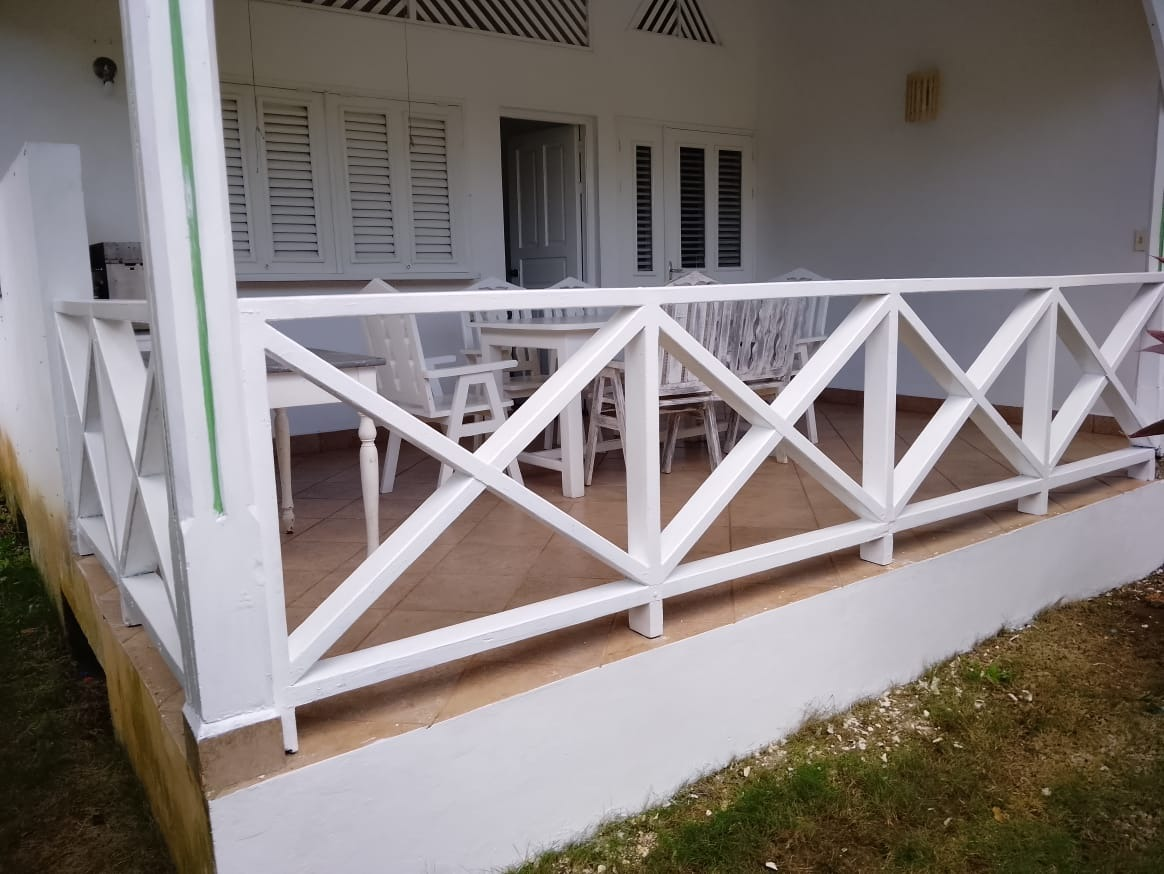
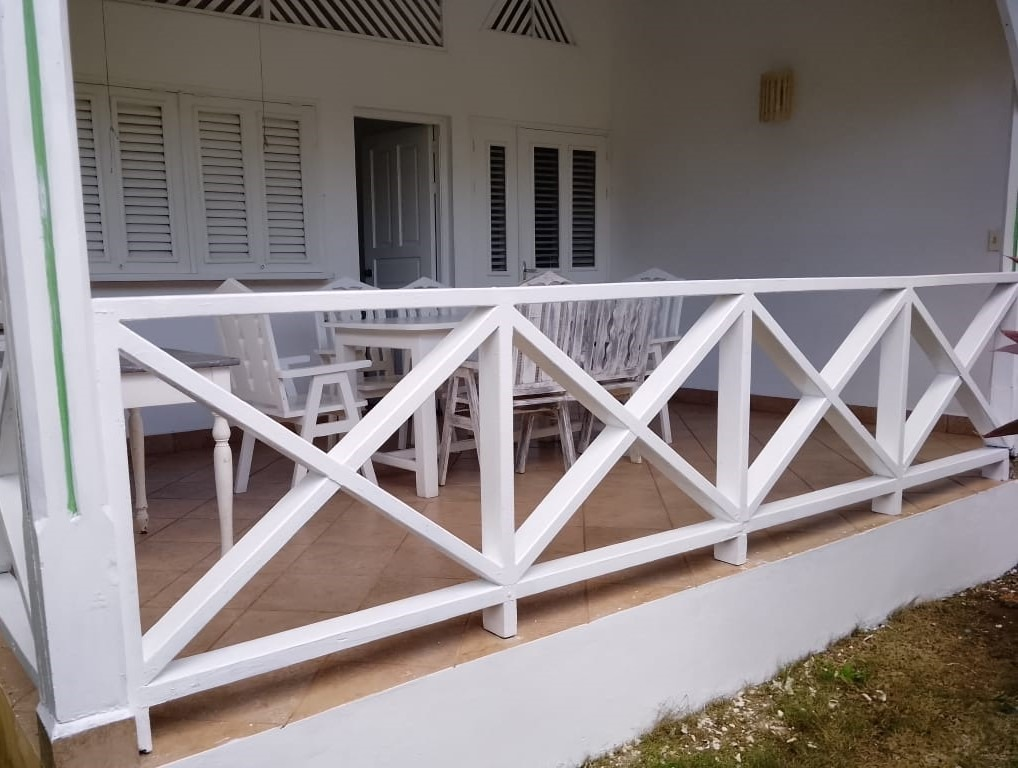
Add files via upload

diff --git a/generador/INSTRUCCIONES.md b/generador/INSTRUCCIONES.md
@@ -24,8 +24,12 @@ Cada ejecución (días 1, 5, 9, 13, 17, 21 y 25 de cada mes; el plan de Metricoo
 - 2026-12-17 antes-despues-baranda (pieza ANTES Y DESPUÉS: fotos reales del cliente, terraza de una villa: baranda reparada, pintura nueva, base limpia y pintada)
 - 2026-12-21 temporada-huespedes
 - 2026-12-25 plan-2027
+
+## Calendario enero 2027 (aprobado; piezas ya generadas en 2027-01/)
+- 2027-01-01 antes-despues-muro (pieza ANTES Y DESPUÉS: muro de entrada de una villa: muro limpio, manchas eliminadas, pintura nueva)
+- Desde el 2027-01-05: temas nuevos según las reglas de abajo.
 Las piezas de tipo "antes-despues" (JSON con "tipo": "antes-despues") se generan con `python3 generar_antes_despues.py temas/<tema>.json` (2 fotos; estilo propio en antes-despues.css).
-Las fotos reales del cliente en assets/ (base-moho, silla-rota, cocina-gabinete, baranda-antes, baranda-despues) son de villas atendidas por Aponwao.
+Las fotos reales del cliente en assets/ (base-moho, silla-rota, cocina-gabinete, baranda-antes, baranda-despues, tomacorriente-real, muro-antes, muro-despues) son de villas atendidas por Aponwao.
 
 ## Calendario noviembre (aprobado por el cliente; los JSON están en generador/temas/)
 - 2026-11-05 pintura (publicado)
